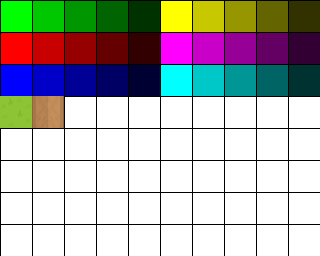
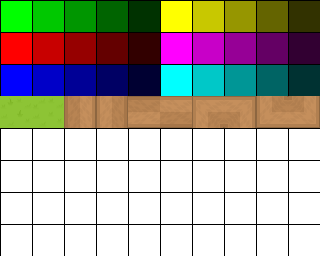
Wood tiles
???

Changed region(s): [[0.0938, 0.375, 1.0, 0.5]]

diff --git a/src/map/Map.java b/src/map/Map.java
@@ -69,7 +69,22 @@ public class Map
                         g.drawImage(sprite.tile[3][0], Game.MAPOFFX + j * Game.TILESIZE, Game.MAPOFFY + i * Game.TILESIZE, Game.TILESIZE, Game.TILESIZE, null);
                         break;
                     case 2:
-                        g.drawImage(sprite.tile[3][1], Game.MAPOFFX + j * Game.TILESIZE, Game.MAPOFFY + i * Game.TILESIZE, Game.TILESIZE, Game.TILESIZE, null);
+                        g.drawImage(sprite.tile[3][2], Game.MAPOFFX + j * Game.TILESIZE, Game.MAPOFFY + i * Game.TILESIZE, Game.TILESIZE, Game.TILESIZE, null);
+                        break;
+                    case 3:
+                        g.drawImage(sprite.tile[3][3], Game.MAPOFFX + j * Game.TILESIZE, Game.MAPOFFY + i * Game.TILESIZE, Game.TILESIZE, Game.TILESIZE, null);
+                        break;
+                    case 4:
+                        g.drawImage(sprite.tile[3][4], Game.MAPOFFX + j * Game.TILESIZE, Game.MAPOFFY + i * Game.TILESIZE, Game.TILESIZE, Game.TILESIZE, null);
+                        break;
+                    case 5:
+                        g.drawImage(sprite.tile[3][5], Game.MAPOFFX + j * Game.TILESIZE, Game.MAPOFFY + i * Game.TILESIZE, Game.TILESIZE, Game.TILESIZE, null);
+                        break;
+                    case 8:
+                        g.drawImage(sprite.tile[3][8], Game.MAPOFFX + j * Game.TILESIZE, Game.MAPOFFY + i * Game.TILESIZE, Game.TILESIZE, Game.TILESIZE, null);
+                        break;
+                    case 9:
+                        g.drawImage(sprite.tile[3][9], Game.MAPOFFX + j * Game.TILESIZE, Game.MAPOFFY + i * Game.TILESIZE, Game.TILESIZE, Game.TILESIZE, null);
                         break;
                     default:
                         g.drawImage(sprite.tile[2][4], Game.MAPOFFX + j * Game.TILESIZE, Game.MAPOFFY + i * Game.TILESIZE, Game.TILESIZE, Game.TILESIZE, null);

diff --git a/src/algorithm/Path.java b/src/algorithm/Path.java
@@ -158,12 +158,13 @@ public class Path
     //Adds all attackable tiles from specified x, y for specified range
     private void addAttack(int x, int y, int minRange, int maxRange)
     {
-        int nX, nY;
+        int nX, nY, count = 0;
         for(int i = -maxRange; i <= maxRange; i++) {
             for(int j = Math.abs(i) - maxRange; j <= maxRange - Math.abs(i); j++) {
                 nX = x + i;
                 nY = y + j;
                 if(nX >= 0 && nX < Game.mapWidth && nY >= 0 && nY < Game.mapHeight) {
+                    count++;
                     if(Math.abs(i) + Math.abs(j) >= minRange) {
                         if(movement[nX][nY] == 0) {
                             attList.add(new int[]{nX, nY});
@@ -173,6 +174,7 @@ public class Path
                 }
             }
         }
+        System.out.println(count);
     }
     
     //Checks if a tile can be moved to

diff --git a/src/gridGame/Game.java b/src/gridGame/Game.java
@@ -4,7 +4,6 @@ import algorithm.*;
 import character.Unit;
 import graphics.*;
 import gui.Interface;
-import item.Item;
 import item.ItemLoader;
 import java.awt.Canvas;
 import java.awt.Dimension;
@@ -14,7 +13,6 @@ import java.awt.Toolkit;
 import java.awt.image.BufferStrategy;
 import java.awt.image.BufferedImage;
 import java.util.ArrayList;
-import java.util.Arrays;
 import java.util.logging.Level;
 import java.util.logging.Logger;
 import javax.swing.JFrame;
@@ -122,8 +120,8 @@ public class Game extends Canvas implements Runnable
         gui.addButton("Reset Moves", 7);
         
         
-        gui.addButton(544, 14, 140, 16, "up", 9);
-        gui.addButton(544, 378, 140, 16, "down", 10);
+        gui.addButton(544, 14, 140, 16, "Up", 9);
+        gui.addButton(544, 378, 140, 16, "Down", 10);
         //gui.addButton(50, 425, 500, 125, "random button", 11);
     }
     

diff --git a/src/character/Unit.java b/src/character/Unit.java
@@ -200,7 +200,7 @@ public class Unit
     //Shows attackable tiles for the unit
     public boolean showAttack()
     {
-        if(moved && !done)
+        if(!done)
         {
             Game.paths.findPath(new int[]{x, y, 0, minRange, maxRange, team});
             return true;
